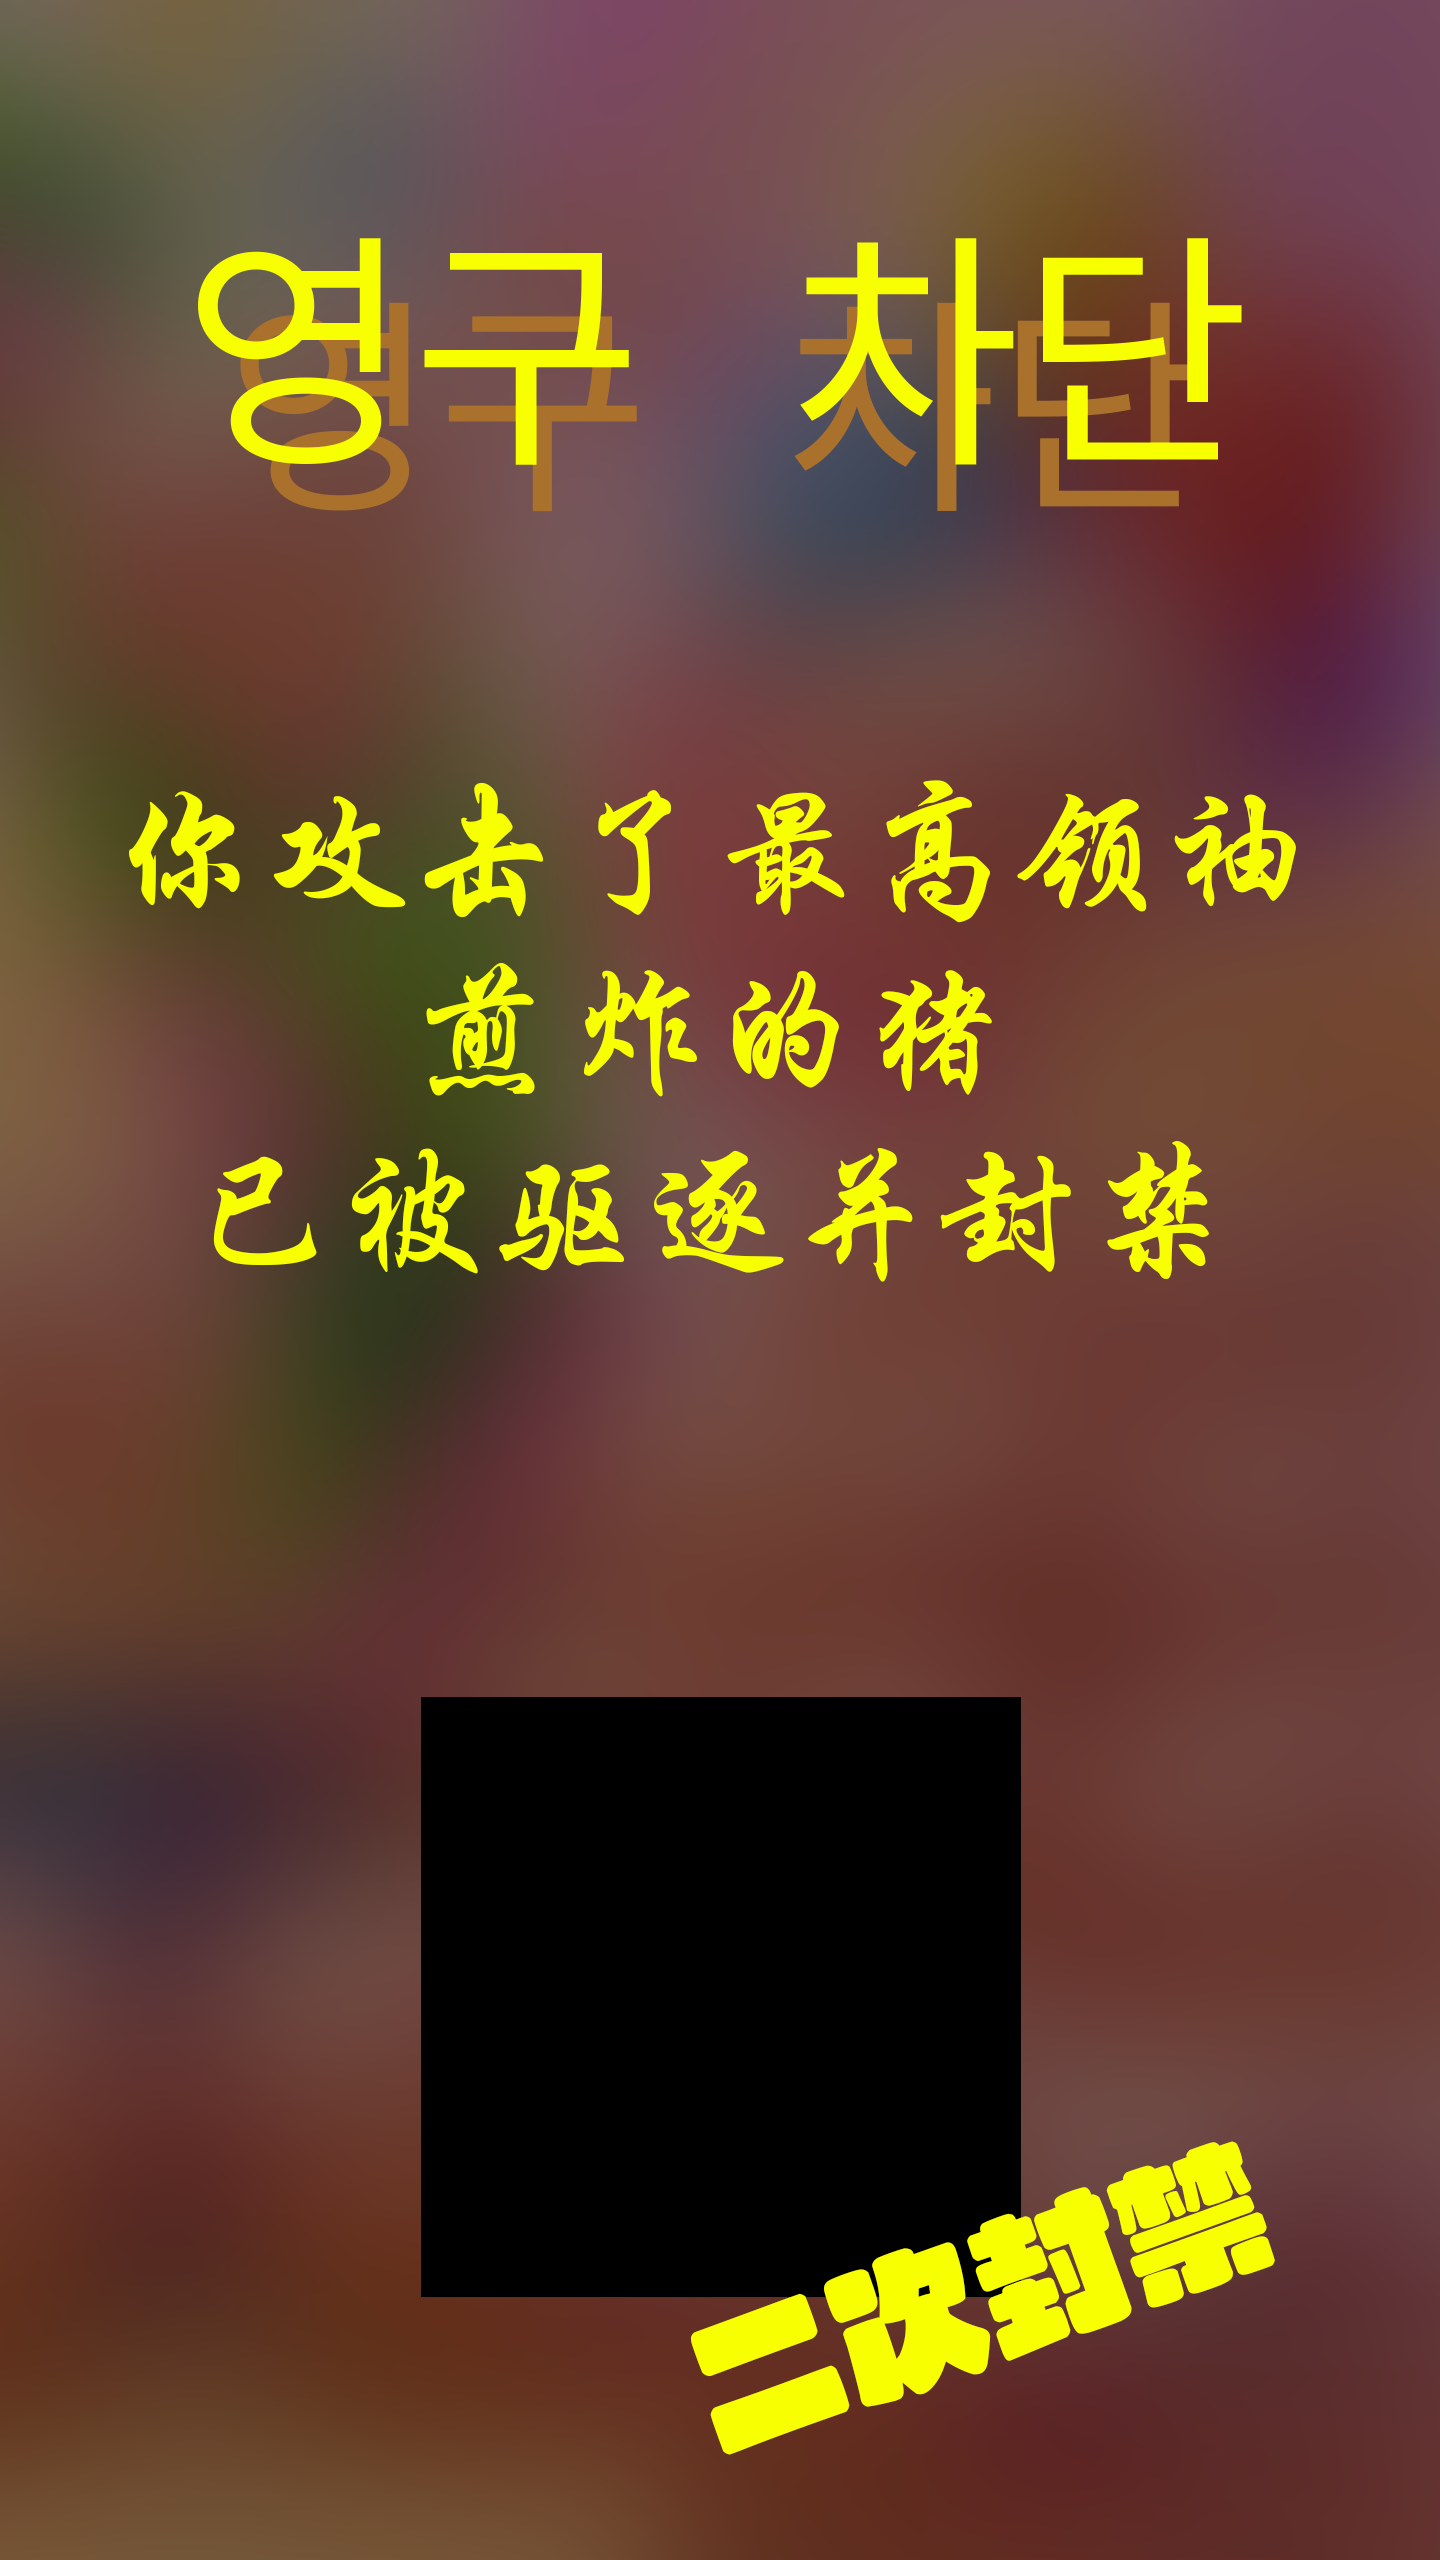
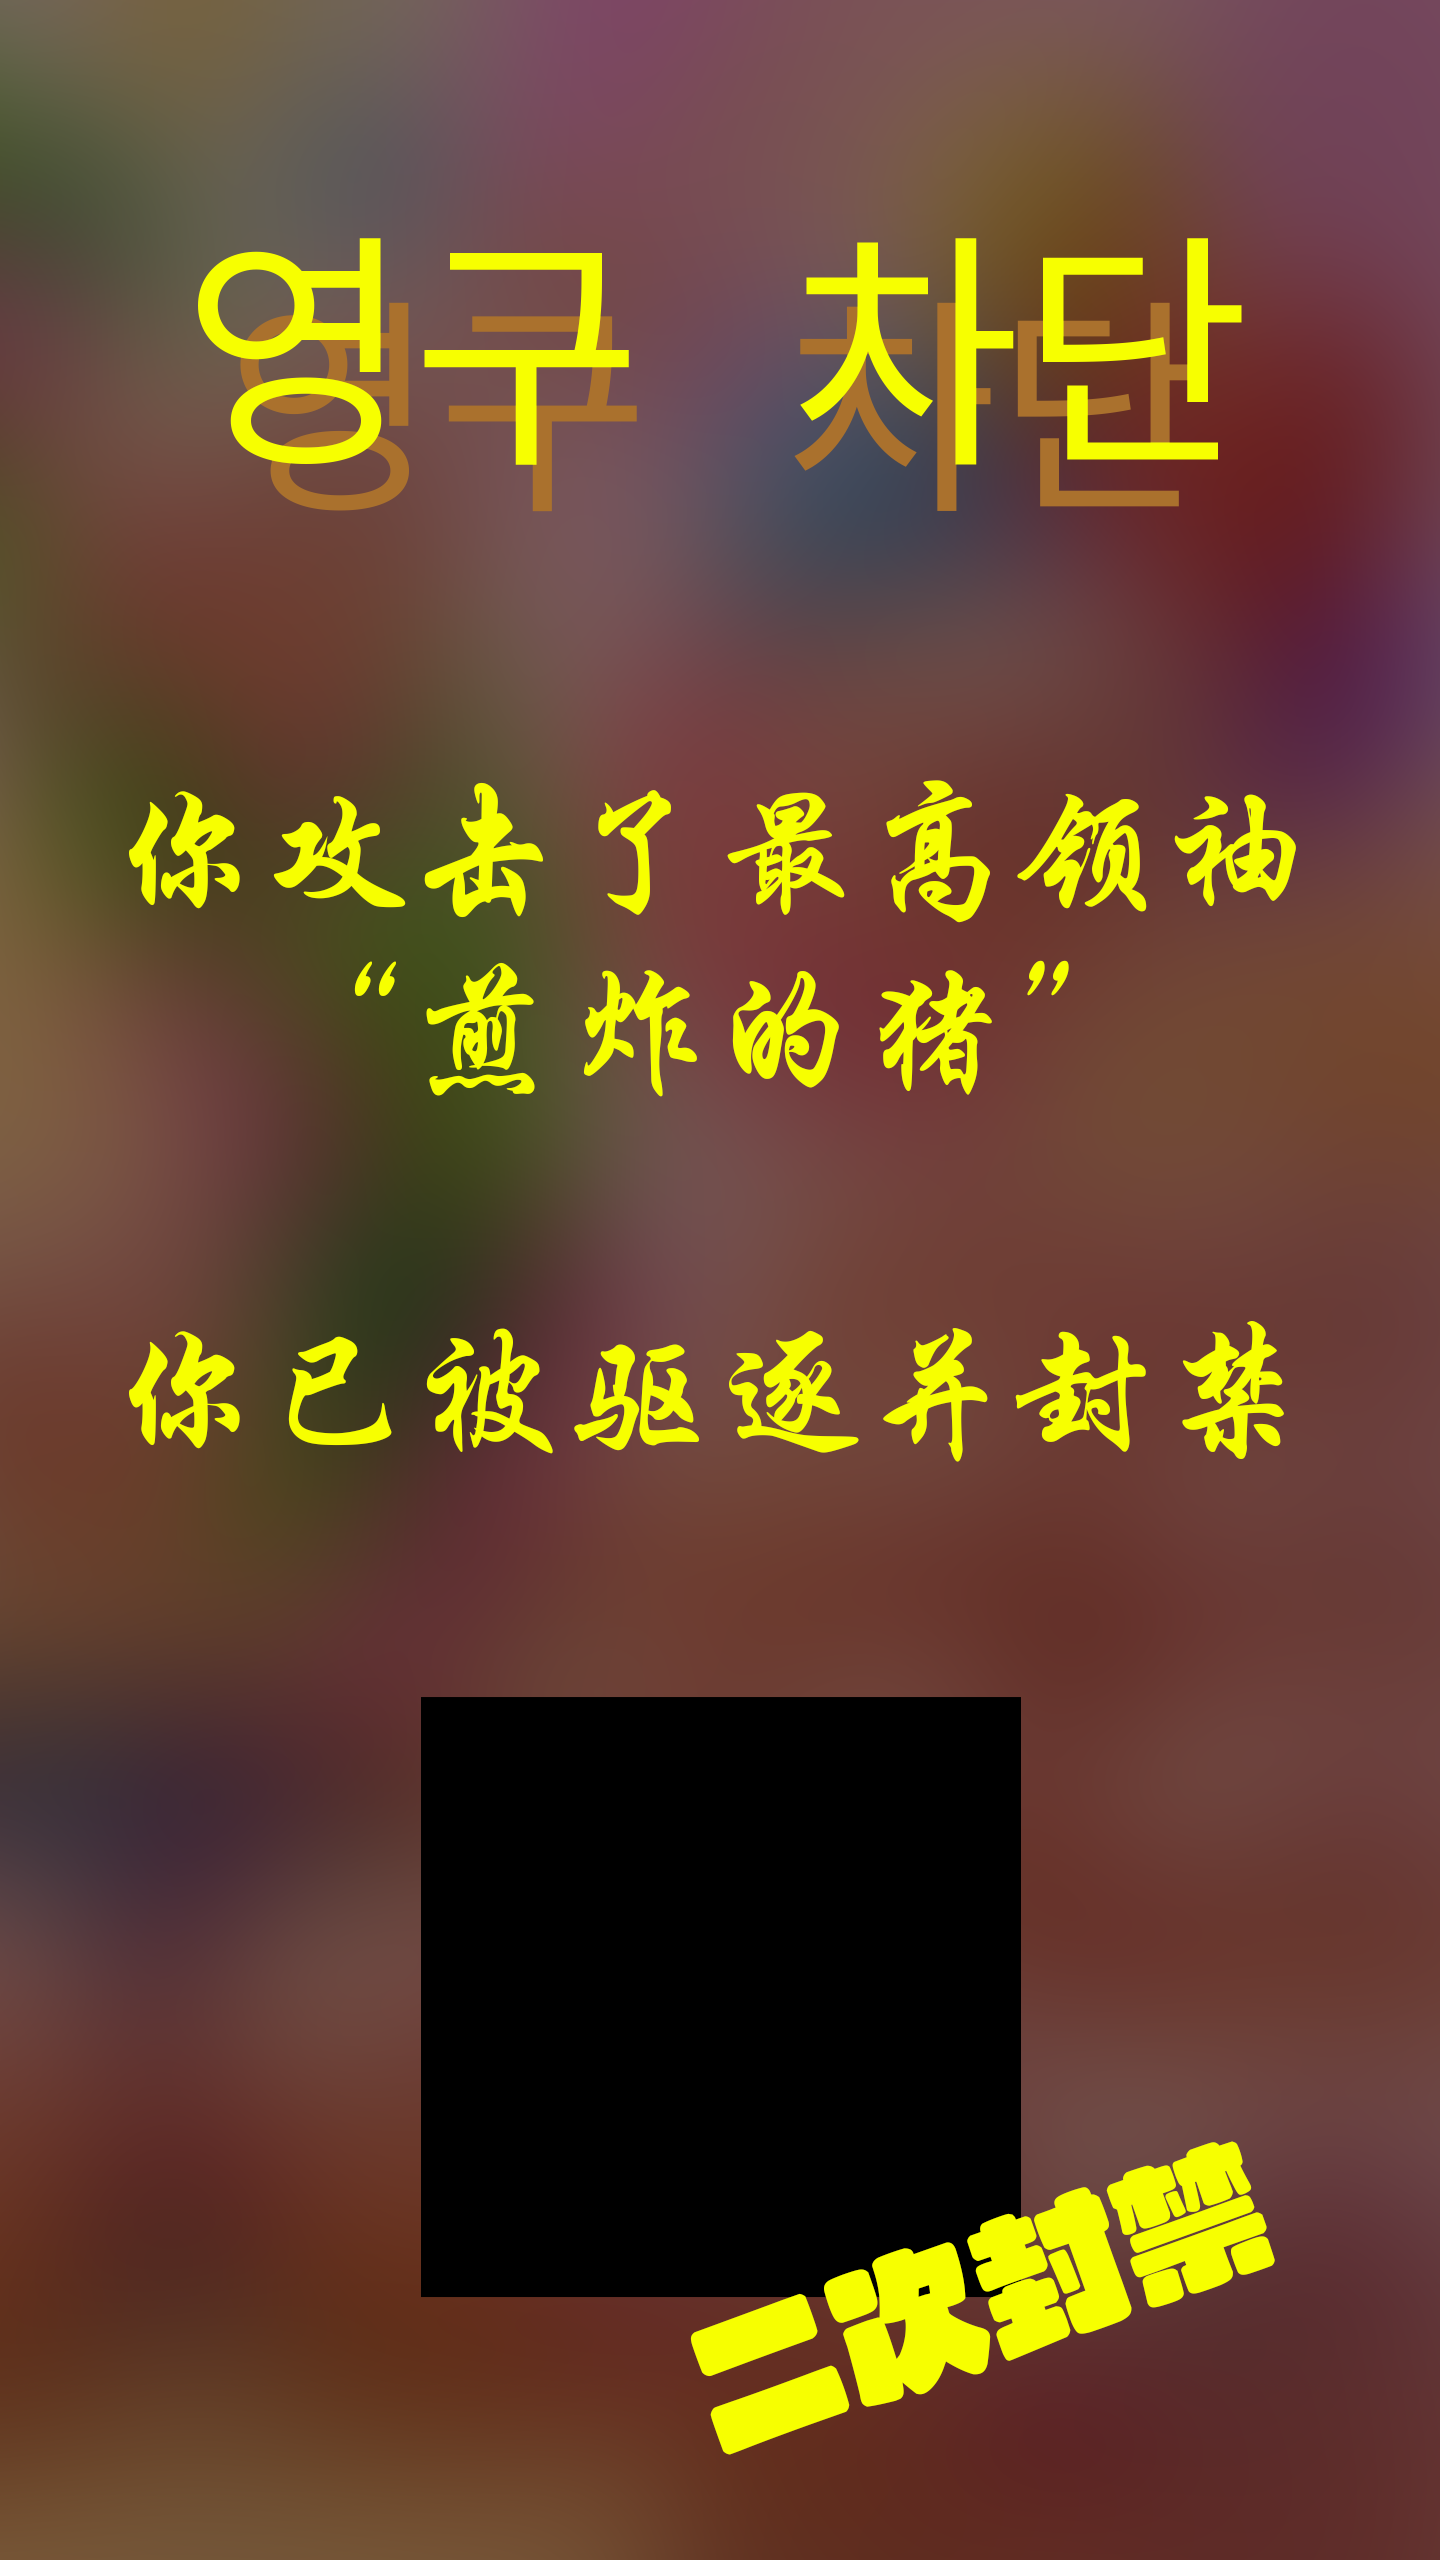
V3.203.000

diff --git a/js/main.js b/js/main.js
@@ -15411,7 +15411,7 @@ window.fgById = window.fgById || function (id) { return document.getElementById(
     allPauseLeaderboardSlots().forEach(function (slot) {
       var chart = slot.querySelector('.pause-leaderboard');
       if (!chart || !chart._pauseLeaderboardRows || !chart._pauseLeaderboardRows.length) return;
-      drawPauseLeaderboardChart(chart, chart._pauseLeaderboardRows, chart._pauseLeaderboardValueFormatter, chart._pauseLeaderboardBarValueFormatter);
+      drawPauseLeaderboardChart(chart, chart._pauseLeaderboardRows, chart._pauseLeaderboardValueFormatter, chart._pauseLeaderboardBarValueFormatter, chart._pauseLeaderboardGrouped);
     });
   }
 
@@ -15692,7 +15692,7 @@ window.fgById = window.fgById || function (id) { return document.getElementById(
     return Array.isArray(raw) ? raw.join(' ') : String(raw == null ? '' : raw);
   }
 
-  function drawPauseLeaderboardChart(chart, rows, valueFormatter, barValueFormatter) {
+  function drawPauseLeaderboardChart(chart, rows, valueFormatter, barValueFormatter, preGrouped) {
     if (!chart || !rows || !rows.length) return;
     var previousSvg = chart.querySelector('.pause-leaderboard-svg');
     if (previousSvg) previousSvg.remove();
@@ -15703,21 +15703,43 @@ window.fgById = window.fgById || function (id) { return document.getElementById(
     var previousScrollTop = chart.scrollTop || 0;
 
     // 同分值合并为一条：名称用「、」连接，名次按参与人数计算。
+    // 地图榜由桌面端先合并好并写好名次（尾部无跑分的行 value=0、unscored=true）。
     var groupedRows = [];
-    rows.forEach(function (row) {
-      var value = Math.max(0, Number(row.value) || 0);
-      var last = groupedRows[groupedRows.length - 1];
-      if (last && Math.abs(last.value - value) <= 1e-9) {
-        last.names.push(row.name);
-      } else {
-        groupedRows.push({ value: value, names: [row.name] });
-      }
-    });
+    if (preGrouped) {
+      rows.forEach(function (row) {
+        groupedRows.push({
+          value: Math.max(0, Number(row.value) || 0),
+          names: [row.name],
+          fullName: row.fullName != null ? String(row.fullName) : String(row.name == null ? '' : row.name),
+          rank: Math.max(1, Math.round(Number(row.rank) || 0)),
+          unscored: !!row.unscored,
+          stale: !!row.stale
+        });
+      });
+    } else {
+      rows.forEach(function (row) {
+        var value = Math.max(0, Number(row.value) || 0);
+        var last = groupedRows[groupedRows.length - 1];
+        if (last && Math.abs(last.value - value) <= 1e-9) {
+          last.names.push(row.name);
+          last.stale = last.stale || !!row.stale;
+        } else {
+          groupedRows.push({
+            value: value,
+            names: [row.name],
+            stale: !!row.stale
+          });
+        }
+      });
+    }
     rows = groupedRows;
 
     var maxValueTextWidth = 0;
     rows.forEach(function (row) {
-      maxValueTextWidth = Math.max(maxValueTextWidth, pauseLeaderboardEstimatedTextWidth(pauseLeaderboardValueText(Math.max(0, Number(row.value) || 0), valueFormatter)));
+      var valueText = row.unscored
+        ? '-'
+        : pauseLeaderboardValueText(Math.max(0, Number(row.value) || 0), valueFormatter);
+      maxValueTextWidth = Math.max(maxValueTextWidth, pauseLeaderboardEstimatedTextWidth(valueText));
     });
 
     var measuredHeight = chart.clientHeight || pauseLeaderboardAvailableHeight(chart) || 140;
@@ -15791,12 +15813,16 @@ window.fgById = window.fgById || function (id) { return document.getElementById(
     var nextRank = 1;
     rows.forEach(function (row, index) {
       var value = Math.max(0, Number(row.value) || 0);
-      if (index === 0 || Math.abs(value - previousValue) > 1e-9) {
-        currentRank = nextRank;
-        previousValue = value;
+      if (preGrouped) {
+        currentRank = Math.max(1, Math.round(Number(row.rank) || (index + 1)));
+      } else {
+        if (index === 0 || Math.abs(value - previousValue) > 1e-9) {
+          currentRank = nextRank;
+          previousValue = value;
+        }
+        nextRank = currentRank + row.names.length;
       }
-      nextRank = currentRank + row.names.length;
-      var isTop = currentRank === 1;
+      var isTop = currentRank === 1 && !row.unscored;
       var barWidth = Math.max(0, barPlotWidth * value / chartMaximum);
       var barY = margin.top + index * rowStep + (rowStep - barHeight) / 2;
       var rankLabel = createPauseLeaderboardSvgElement('text', {
@@ -15819,7 +15845,7 @@ window.fgById = window.fgById || function (id) { return document.getElementById(
       var fullNameText = row.fullName != null
         ? String(row.fullName)
         : row.names.map(function (name) { return i18nHotspotText(name); }).filter(Boolean).join('、');
-      var valueText = pauseLeaderboardValueText(value, valueFormatter);
+      var valueText = row.unscored ? '-' : pauseLeaderboardValueText(value, valueFormatter);
       var nameMaxWidth = Math.max(60, barPlotWidth - 18);
       barTitle.textContent = fullNameText + '：' + valueText;
       bar.appendChild(barTitle);
@@ -15883,7 +15909,7 @@ window.fgById = window.fgById || function (id) { return document.getElementById(
     chart.scrollTop = previousScrollTop;
   }
 
-  function renderPauseLeaderboardSlot(slot, title, rows, valueFormatter, barValueFormatter) {
+  function renderPauseLeaderboardSlot(slot, title, rows, valueFormatter, barValueFormatter, preGrouped) {
     slot.innerHTML = '';
     var heading = document.createElement('div');
     heading.className = 'pause-ad-title';
@@ -15904,9 +15930,10 @@ window.fgById = window.fgById || function (id) { return document.getElementById(
     chart._pauseLeaderboardRows = rows;
     chart._pauseLeaderboardValueFormatter = valueFormatter;
     chart._pauseLeaderboardBarValueFormatter = barValueFormatter;
+    chart._pauseLeaderboardGrouped = !!preGrouped;
     slot.appendChild(chart);
     requestAnimationFrame(function () {
-      if (chart.isConnected) drawPauseLeaderboardChart(chart, rows, valueFormatter, barValueFormatter);
+      if (chart.isConnected) drawPauseLeaderboardChart(chart, rows, valueFormatter, barValueFormatter, !!preGrouped);
     });
   }
 
@@ -16024,7 +16051,7 @@ window.fgById = window.fgById || function (id) { return document.getElementById(
       if (type === 'experience') {
         renderPauseLeaderboardSlot(slot, i18nT('pause.lb.mapScore.name', '地图跑分榜'), mapScoreRows, function (value) {
           return formatMapCount(value);
-        });
+        }, true);
       } else if (type === 'value') {
         renderPauseLeaderboardSlot(slot, '全勤价值榜', valueRows, function (value) {
           return Number(value || 0).toLocaleString('en-US', { minimumFractionDigits: 2, maximumFractionDigits: 2 });

diff --git a/app.html b/app.html
@@ -14,7 +14,7 @@
 <link rel="icon" href="favicon.ico?v=7" type="image/x-icon">
 <link rel="shortcut icon" href="favicon.ico?v=7">
 <link rel="apple-touch-icon" href="favicon.ico?v=7">
-<link rel="stylesheet" href="css/style.css?v=20261104i18n1">
+<link rel="stylesheet" href="css/style.css?v=20261104lb1">
 </head>
 <body>
 
@@ -375,11 +375,11 @@
 <script src="js/emoji-trim.js"></script>
 <script src="js/achv-icon-fit.js"></script>
 <script src="js/map-score-wasm.js"></script>
-<script src="js/map-stats.js?v=20261104i18n1"></script>
-<script src="js/sync-manifest.js?v=20261104i18n1"></script>
-<script src="i18n/index.js?v=20261104i18n1"></script>
-<script src="js/i18n.js?v=20261104i18n1"></script>
-<script src="js/outer-settings-pages.js?v=20261104i18n1"></script>
-<script src="js/main.js?v=20261104i18n1"></script>
+<script src="js/map-stats.js?v=20261104lb1"></script>
+<script src="js/sync-manifest.js?v=20261104lb1"></script>
+<script src="i18n/index.js?v=20261104lb1"></script>
+<script src="js/i18n.js?v=20261104lb1"></script>
+<script src="js/outer-settings-pages.js?v=20261104lb1"></script>
+<script src="js/main.js?v=20261104lb1"></script>
 </body>
 </html>

diff --git a/index.html b/index.html
@@ -14,7 +14,7 @@
 <link rel="icon" href="favicon.ico?v=7" type="image/x-icon">
 <link rel="shortcut icon" href="favicon.ico?v=7">
 <link rel="apple-touch-icon" href="favicon.ico?v=7">
-<link rel="stylesheet" href="css/style.css?v=20261104i18n1">
+<link rel="stylesheet" href="css/style.css?v=20261104lb1">
 </head>
 <body>
 
@@ -375,11 +375,11 @@
 <script src="js/emoji-trim.js"></script>
 <script src="js/achv-icon-fit.js"></script>
 <script src="js/map-score-wasm.js"></script>
-<script src="js/map-stats.js?v=20261104i18n1"></script>
-<script src="js/sync-manifest.js?v=20261104i18n1"></script>
-<script src="i18n/index.js?v=20261104i18n1"></script>
-<script src="js/i18n.js?v=20261104i18n1"></script>
-<script src="js/outer-settings-pages.js?v=20261104i18n1"></script>
-<script src="js/main.js?v=20261104i18n1"></script>
+<script src="js/map-stats.js?v=20261104lb1"></script>
+<script src="js/sync-manifest.js?v=20261104lb1"></script>
+<script src="i18n/index.js?v=20261104lb1"></script>
+<script src="js/i18n.js?v=20261104lb1"></script>
+<script src="js/outer-settings-pages.js?v=20261104lb1"></script>
+<script src="js/main.js?v=20261104lb1"></script>
 </body>
 </html>

diff --git a/home.html b/home.html
@@ -30,7 +30,7 @@
 
     <div class="home-actions">
       <a class="home-action is-download"
-         href="https://github.com/JianZhaNoSwine/FGEXPIG-Official-Website/releases/latest/download/FGSteam-Setup-1.0.12.exe"
+         href="https://github.com/JianZhaNoSwine/FGEXPIG-Official-Website/releases/latest/download/FGSteam-Setup-1.0.13.exe"
          target="_blank" rel="noopener noreferrer">
         <span class="home-action-label">下载 Windows 版</span>
         <span class="home-action-note">FGEXPIG Setup</span>

diff --git a/resources/library.js b/resources/library.js
@@ -278,7 +278,7 @@
         },
         {
           "id": "JFES120",
-          "version": "传承版"
+          "version": "终极版"
         },
         {
           "id": "JFES130",
@@ -315,6 +315,14 @@
         {
           "id": "JFES190",
           "version": "支持者版"
+        },
+        {
+          "id": "JFES195",
+          "version": "标准版"
+        },
+        {
+          "id": "JFES200",
+          "version": "标准版"
         }
       ]
     },
@@ -687,4 +695,3 @@
     }
   }
 };
-

diff --git a/resources/update.js b/resources/update.js
@@ -1,6 +1,14 @@
 (window.FGEXPIG_DATA_FILES = window.FGEXPIG_DATA_FILES || {})["resources/update.js"] = {
   "updates": [
     {
+      "version": "V3.203.000-R Release",
+      "content": [
+        "更新内容",
+        "- 库的活动名现在可以设置为独立语言",
+        "- 修复了部分已知问题"
+      ]
+    },
+    {
       "version": "V3.202.000-R Release",
       "content": [
         "更新内容",
